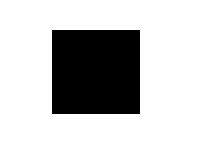
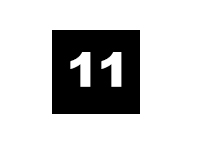
增加根据轮廓极值 定位截取轮廓例子

Changed region(s): [[0.33, 0.3467, 0.63, 0.5867]]

diff --git a/location.py b/location.py
@@ -1,38 +1,44 @@
 """
-寻找轮廓极值的例子
+根据轮廓极值截取出轮廓例子
 """
 import imutils
 import cv2
 
-# 载入图片，将格式转换为灰阶图像,并做轻微模糊化
-image = cv2.imread("./Images/hand.jpg")
-gray = cv2.cvtColor(image, cv2.COLOR_BGR2GRAY)
-gray = cv2.GaussianBlur(gray, (5, 5), 0)
 
-# 二值化图像，然后进行腐蚀扩张，以去除噪点
-thresh = cv2.threshold(gray, 45, 255, cv2.THRESH_BINARY)[1]
-thresh = cv2.erode(thresh, None, iterations=2)
-thresh = cv2.dilate(thresh, None, iterations=2)
+img = cv2.imread('./Images/111.jpg')
+gray = cv2.cvtColor(img, cv2.COLOR_BGR2GRAY)
+blurred = cv2.GaussianBlur(gray, (5, 5), 0)
+edged = cv2.Canny(blurred, 75, 200)
 
 # 在二值化图片中寻找轮廓，然后抓取最大的一个
-Contours = cv2.findContours(thresh.copy(), cv2.RETR_EXTERNAL, cv2.CHAIN_APPROX_SIMPLE)
+contours = cv2.findContours(edged.copy(), cv2.RETR_EXTERNAL, cv2.CHAIN_APPROX_SIMPLE)
 # 判断当前openCV环境
-Contours = Contours[0] if imutils.is_cv2() else Contours[1]
-c = max(Contours, key=cv2.contourArea)
+contours = contours[0] if imutils.is_cv2() else contours[1]
+# 神奇
+c = max(contours, key=cv2.contourArea)
 
 # 沿着轮廓确定更多的极值点
+# 左上
 extLeft = tuple(c[c[:, :, 0].argmin()][0])
+# 右下
 extRight = tuple(c[c[:, :, 0].argmax()][0])
+# 右上
 extTop = tuple(c[c[:, :, 1].argmin()][0])
+# 左下
 extBot = tuple(c[c[:, :, 1].argmax()][0])
 
-# 画出对象的外轮廓，然后画出极值点，左点使用红色，右点使用绿色，上点是蓝色，下点是兰绿色
-cv2.drawContours(image, [c], -1, (0, 255, 255), 2)
-cv2.circle(image, extLeft, 8, (0, 0, 255), -1)
-cv2.circle(image, extRight, 8, (0, 255, 0), -1)
-cv2.circle(image, extTop, 8, (255, 0, 0), -1)
-cv2.circle(image, extBot, 8, (255, 255, 0), -1)
+# 开始行数 选择左上与右上中最小的Y轴
+sH = min(extLeft[1], extTop[1])
+# 结束行数 左下与右下中最大的Y轴
+eH = max(extBot[1], extRight[1])
+# 开始列数 左上与左下中最小的x轴
+sL = min(extLeft[0], extBot[0])
+# 结束列数 右上与右下中最大的x轴
+eL = max(extTop[0], extRight[0])
+
+# 取出轮廓
+img = img[sH:eH, sL:eL]
 
 # 输出显示image
-cv2.imshow("Image", image)
+cv2.imshow("Image", img)
 cv2.waitKey(0)

diff --git a/contours.py b/contours.py
@@ -1,0 +1,38 @@
+"""
+寻找轮廓极值的例子
+"""
+import imutils
+import cv2
+
+# 载入图片，将格式转换为灰阶图像,并做轻微模糊化
+image = cv2.imread("./Images/hand.jpg")
+gray = cv2.cvtColor(image, cv2.COLOR_BGR2GRAY)
+gray = cv2.GaussianBlur(gray, (5, 5), 0)
+
+# 二值化图像，然后进行腐蚀扩张，以去除噪点
+thresh = cv2.threshold(gray, 45, 255, cv2.THRESH_BINARY)[1]
+thresh = cv2.erode(thresh, None, iterations=2)
+thresh = cv2.dilate(thresh, None, iterations=2)
+
+# 在二值化图片中寻找轮廓，然后抓取最大的一个
+contours = cv2.findContours(thresh.copy(), cv2.RETR_EXTERNAL, cv2.CHAIN_APPROX_SIMPLE)
+# 判断当前openCV环境
+contours = contours[0] if imutils.is_cv2() else contours[1]
+c = max(contours, key=cv2.contourArea)
+
+# 沿着轮廓确定更多的极值点
+extLeft = tuple(c[c[:, :, 0].argmin()][0])
+extRight = tuple(c[c[:, :, 0].argmax()][0])
+extTop = tuple(c[c[:, :, 1].argmin()][0])
+extBot = tuple(c[c[:, :, 1].argmax()][0])
+
+# 画出对象的外轮廓，然后画出极值点，左点使用红色，右点使用绿色，上点是蓝色，下点是兰绿色
+cv2.drawContours(image, [c], -1, (0, 255, 255), 2)
+cv2.circle(image, extLeft, 8, (0, 0, 255), -1)
+cv2.circle(image, extRight, 8, (0, 255, 0), -1)
+cv2.circle(image, extTop, 8, (255, 0, 0), -1)
+cv2.circle(image, extBot, 8, (255, 255, 0), -1)
+
+# 输出显示image
+cv2.imshow("Image", image)
+cv2.waitKey(0)
